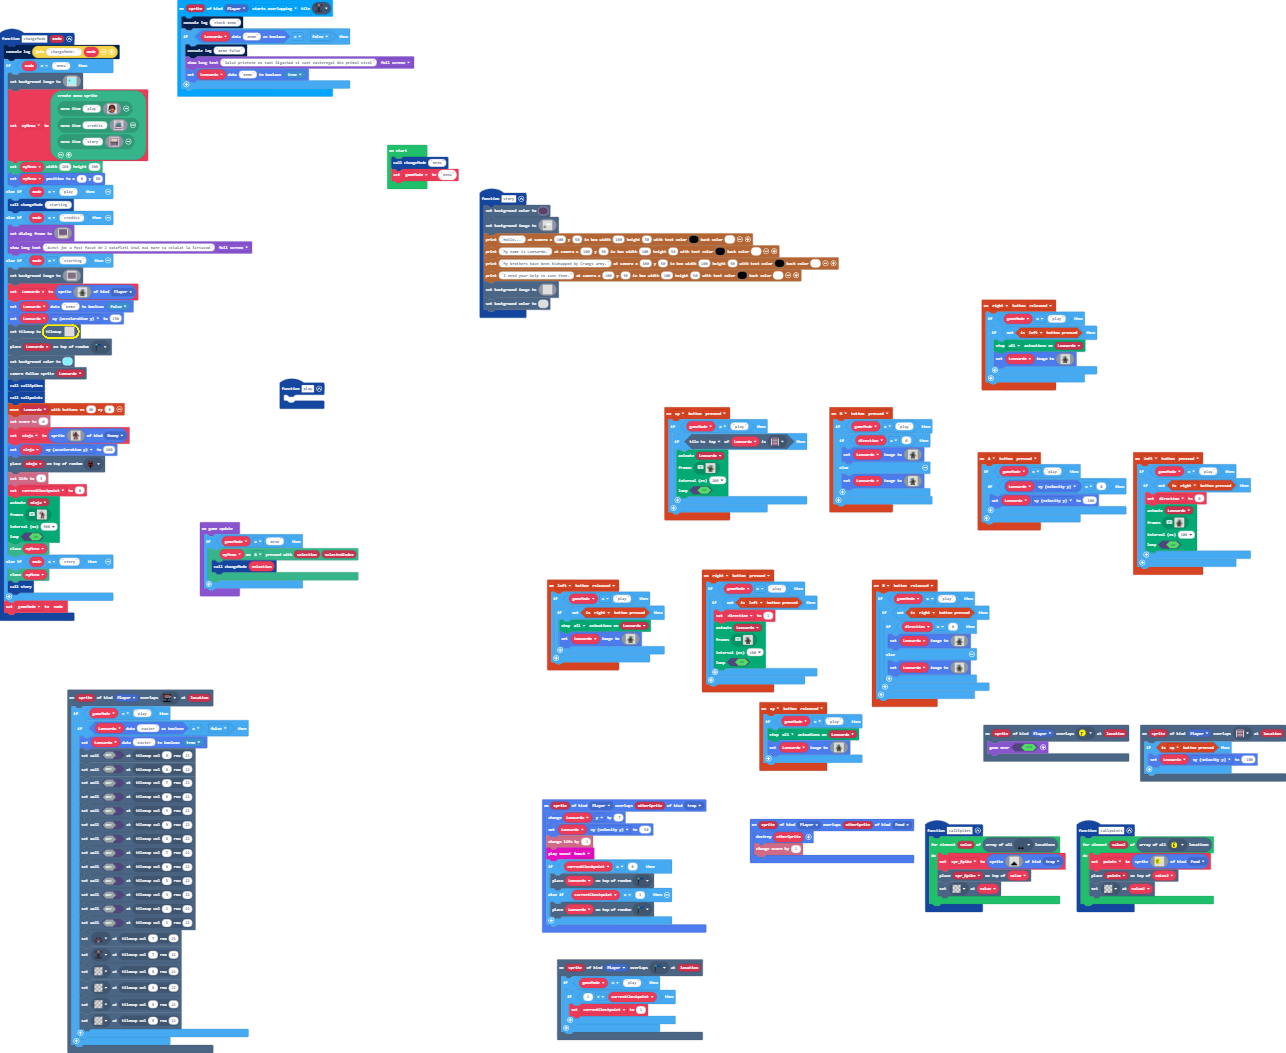
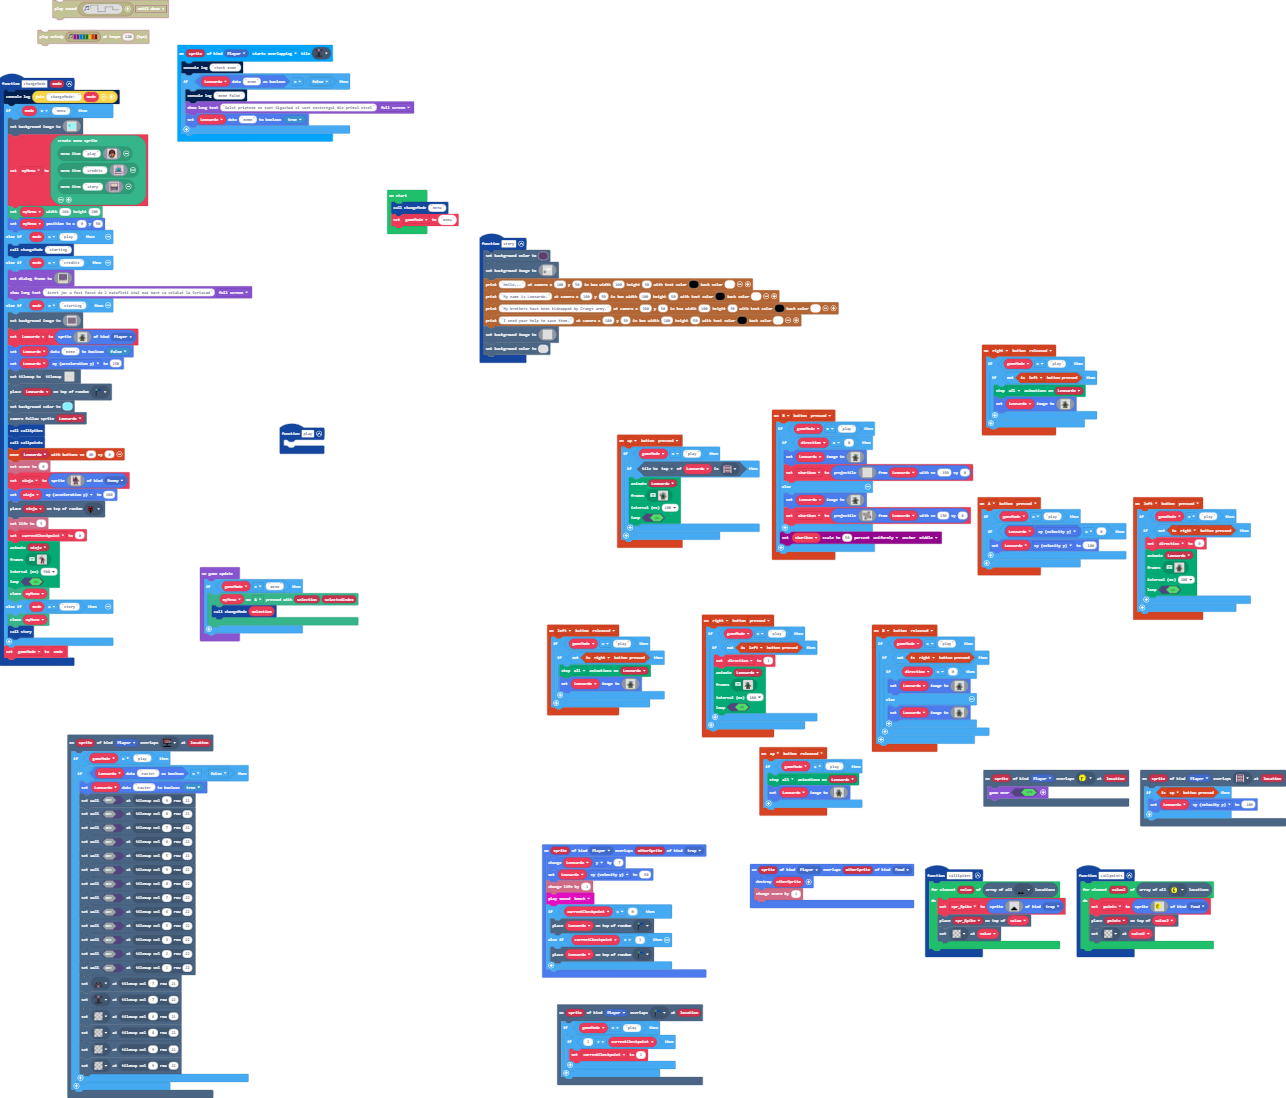
Update pxt.json, main.blocks, main.ts

diff --git a/main.ts b/main.ts
@@ -112,6 +112,21 @@ controller.B.onEvent(ControllerButtonEvent.Pressed, function () {
                 ...f77f..f77f...
                 ...ffff..ffff...
                 `)
+            shuriken = sprites.createProjectileFromSprite(img`
+                . . . . . . . . . . . . . 
+                . . . . . . . . . . . . . 
+                . . . . . . . . . . . . . 
+                . . . . . . . . . . . . . 
+                . . . . . . . . . . . . . 
+                . . . . . . . . . . . . . 
+                . . . . . . . . . . . . . 
+                . . . . . . . . . . . . . 
+                . . . . . . . . . . . . . 
+                . . . . . . . . . . . . . 
+                . . . . . . . . . . . . . 
+                . . . . . . . . . . . . . 
+                . . . . . . . . . . . . . 
+                `, Leonardo, -150, 0)
         } else {
             Leonardo.setImage(img`
                 ................
@@ -135,7 +150,23 @@ controller.B.onEvent(ControllerButtonEvent.Pressed, function () {
                 ...f77f..f77f...
                 ...ffff..ffff...
                 `)
+            shuriken = sprites.createProjectileFromSprite(img`
+                . . . . . . . . f f . . . 
+                . . . . . . . f d d f . . 
+                . f . . . . f d d f . . . 
+                f d f f . f d d d f . . . 
+                f d d d f d d d f . . . . 
+                . f d d d d f d d f . . . 
+                . . f d d f . f d d f . . 
+                . . . f d d f d d d d f . 
+                . . . . f d d d f d d d f 
+                . . . f d d d f . f f d f 
+                . . . f d d f . . . . f . 
+                . . f d d f . . . . . . . 
+                . . . f f . . . . . . . . 
+                `, Leonardo, 150, 0)
         }
+        scaling.scaleToPercent(shuriken, 50, ScaleDirection.Uniformly, ScaleAnchor.Middle)
     }
 })
 scene.onOverlapTile(SpriteKind.Player, assets.tile`myTile15`, function (sprite, location) {
@@ -1237,6 +1268,7 @@ let points: Sprite = null
 let ninja: Sprite = null
 let myMenu: miniMenu.MenuSprite = null
 let spr_Spike: Sprite = null
+let shuriken: Sprite = null
 let direction = 0
 let Leonardo: Sprite = null
 let currentCheckpoint = 0
